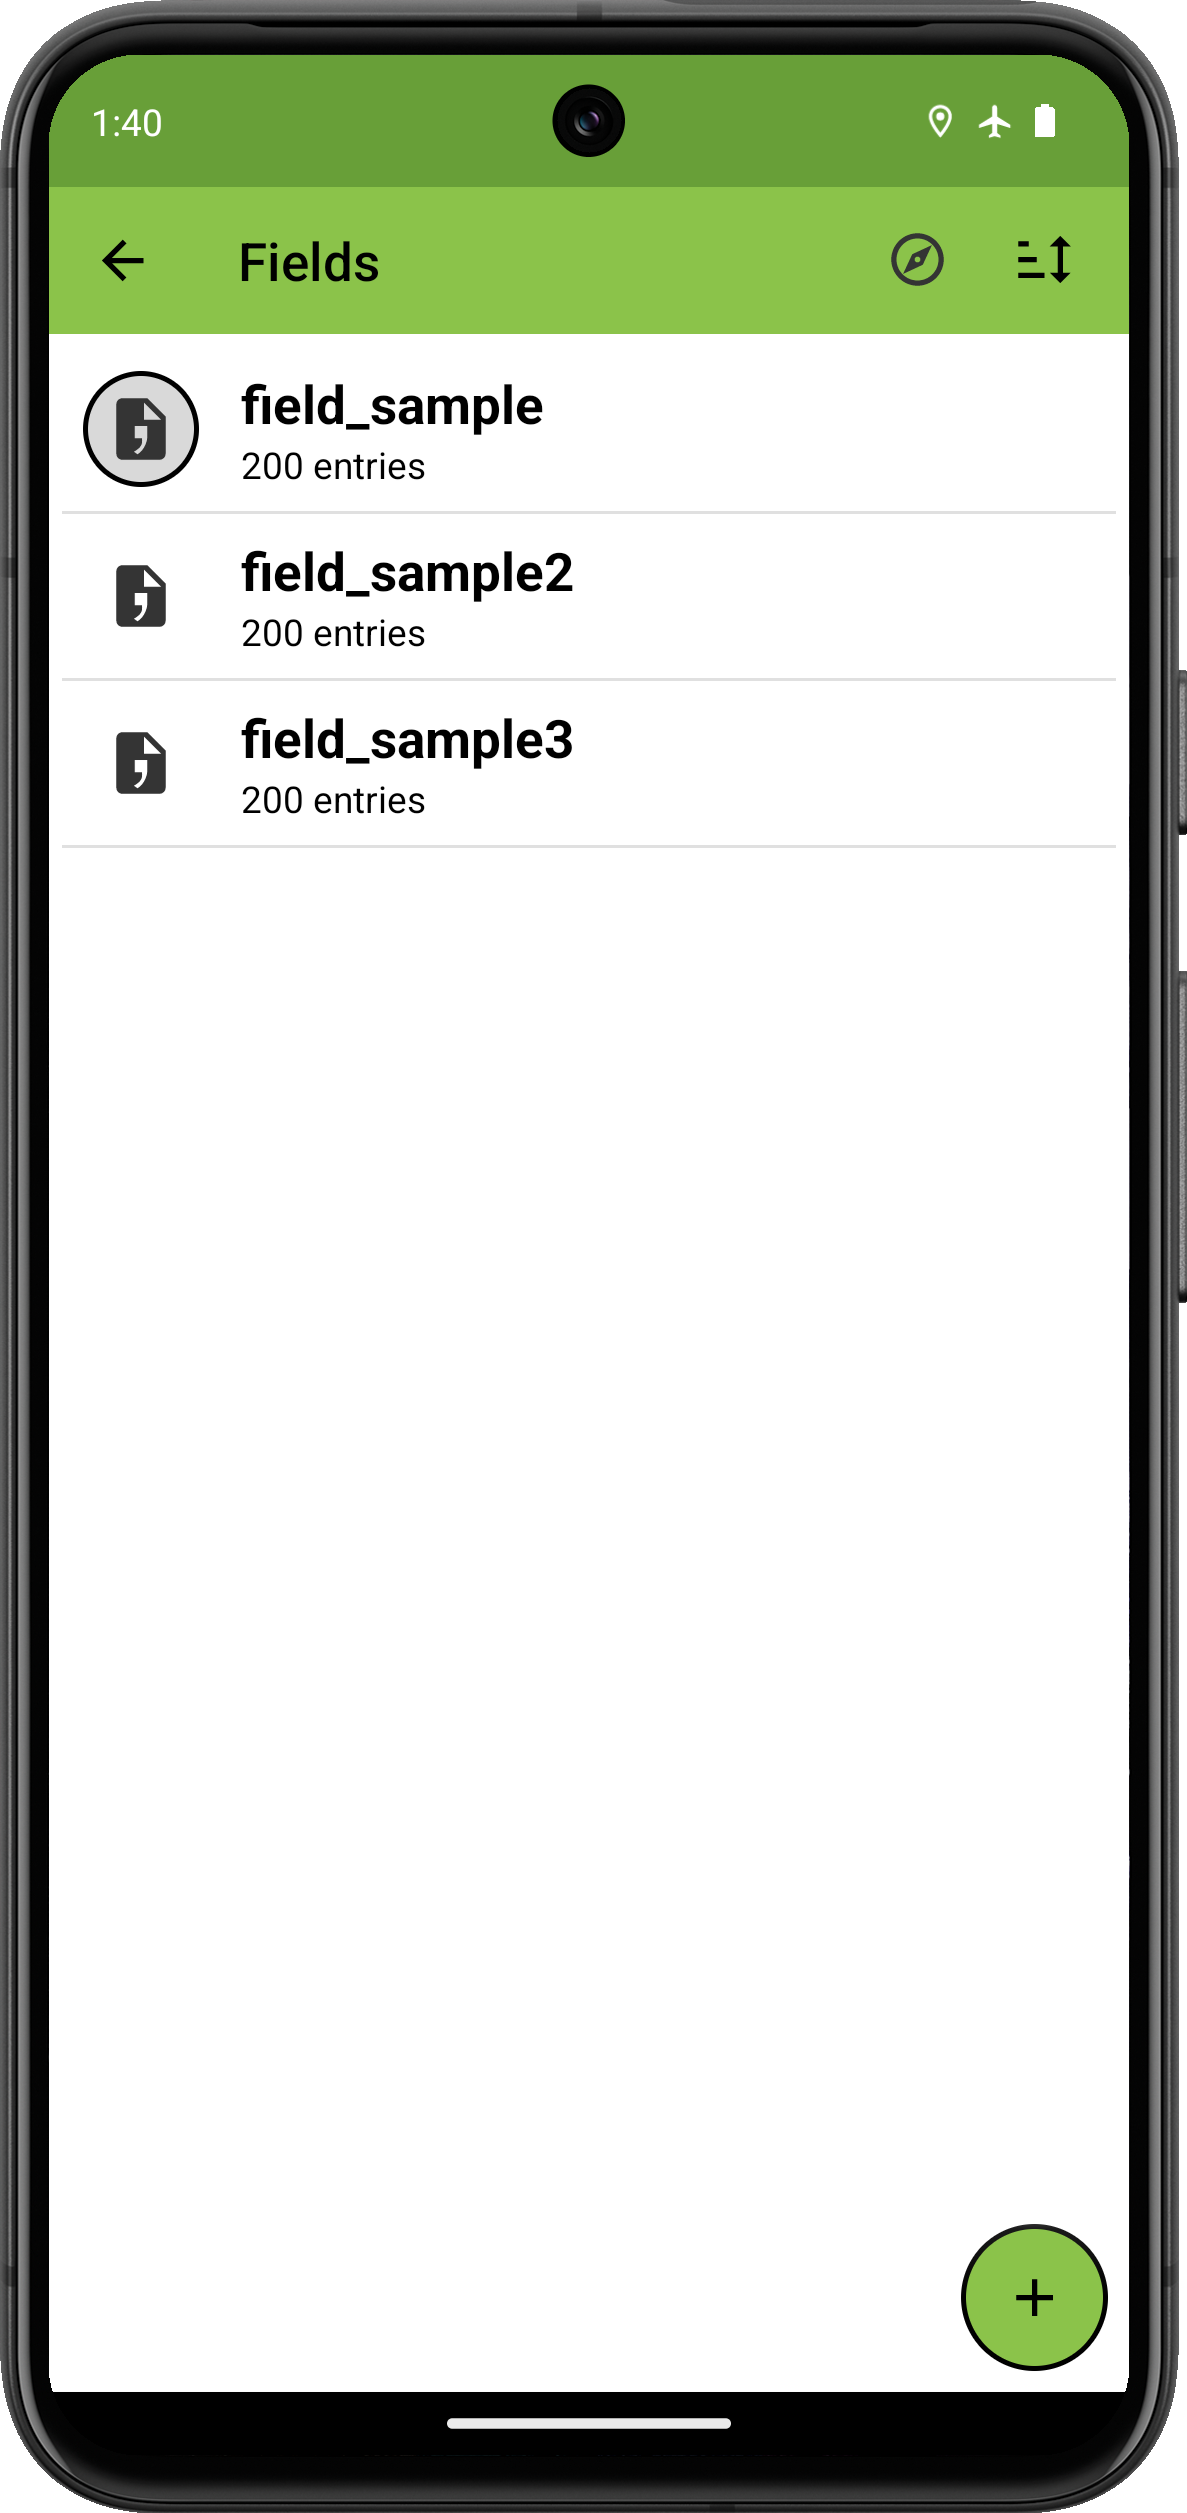
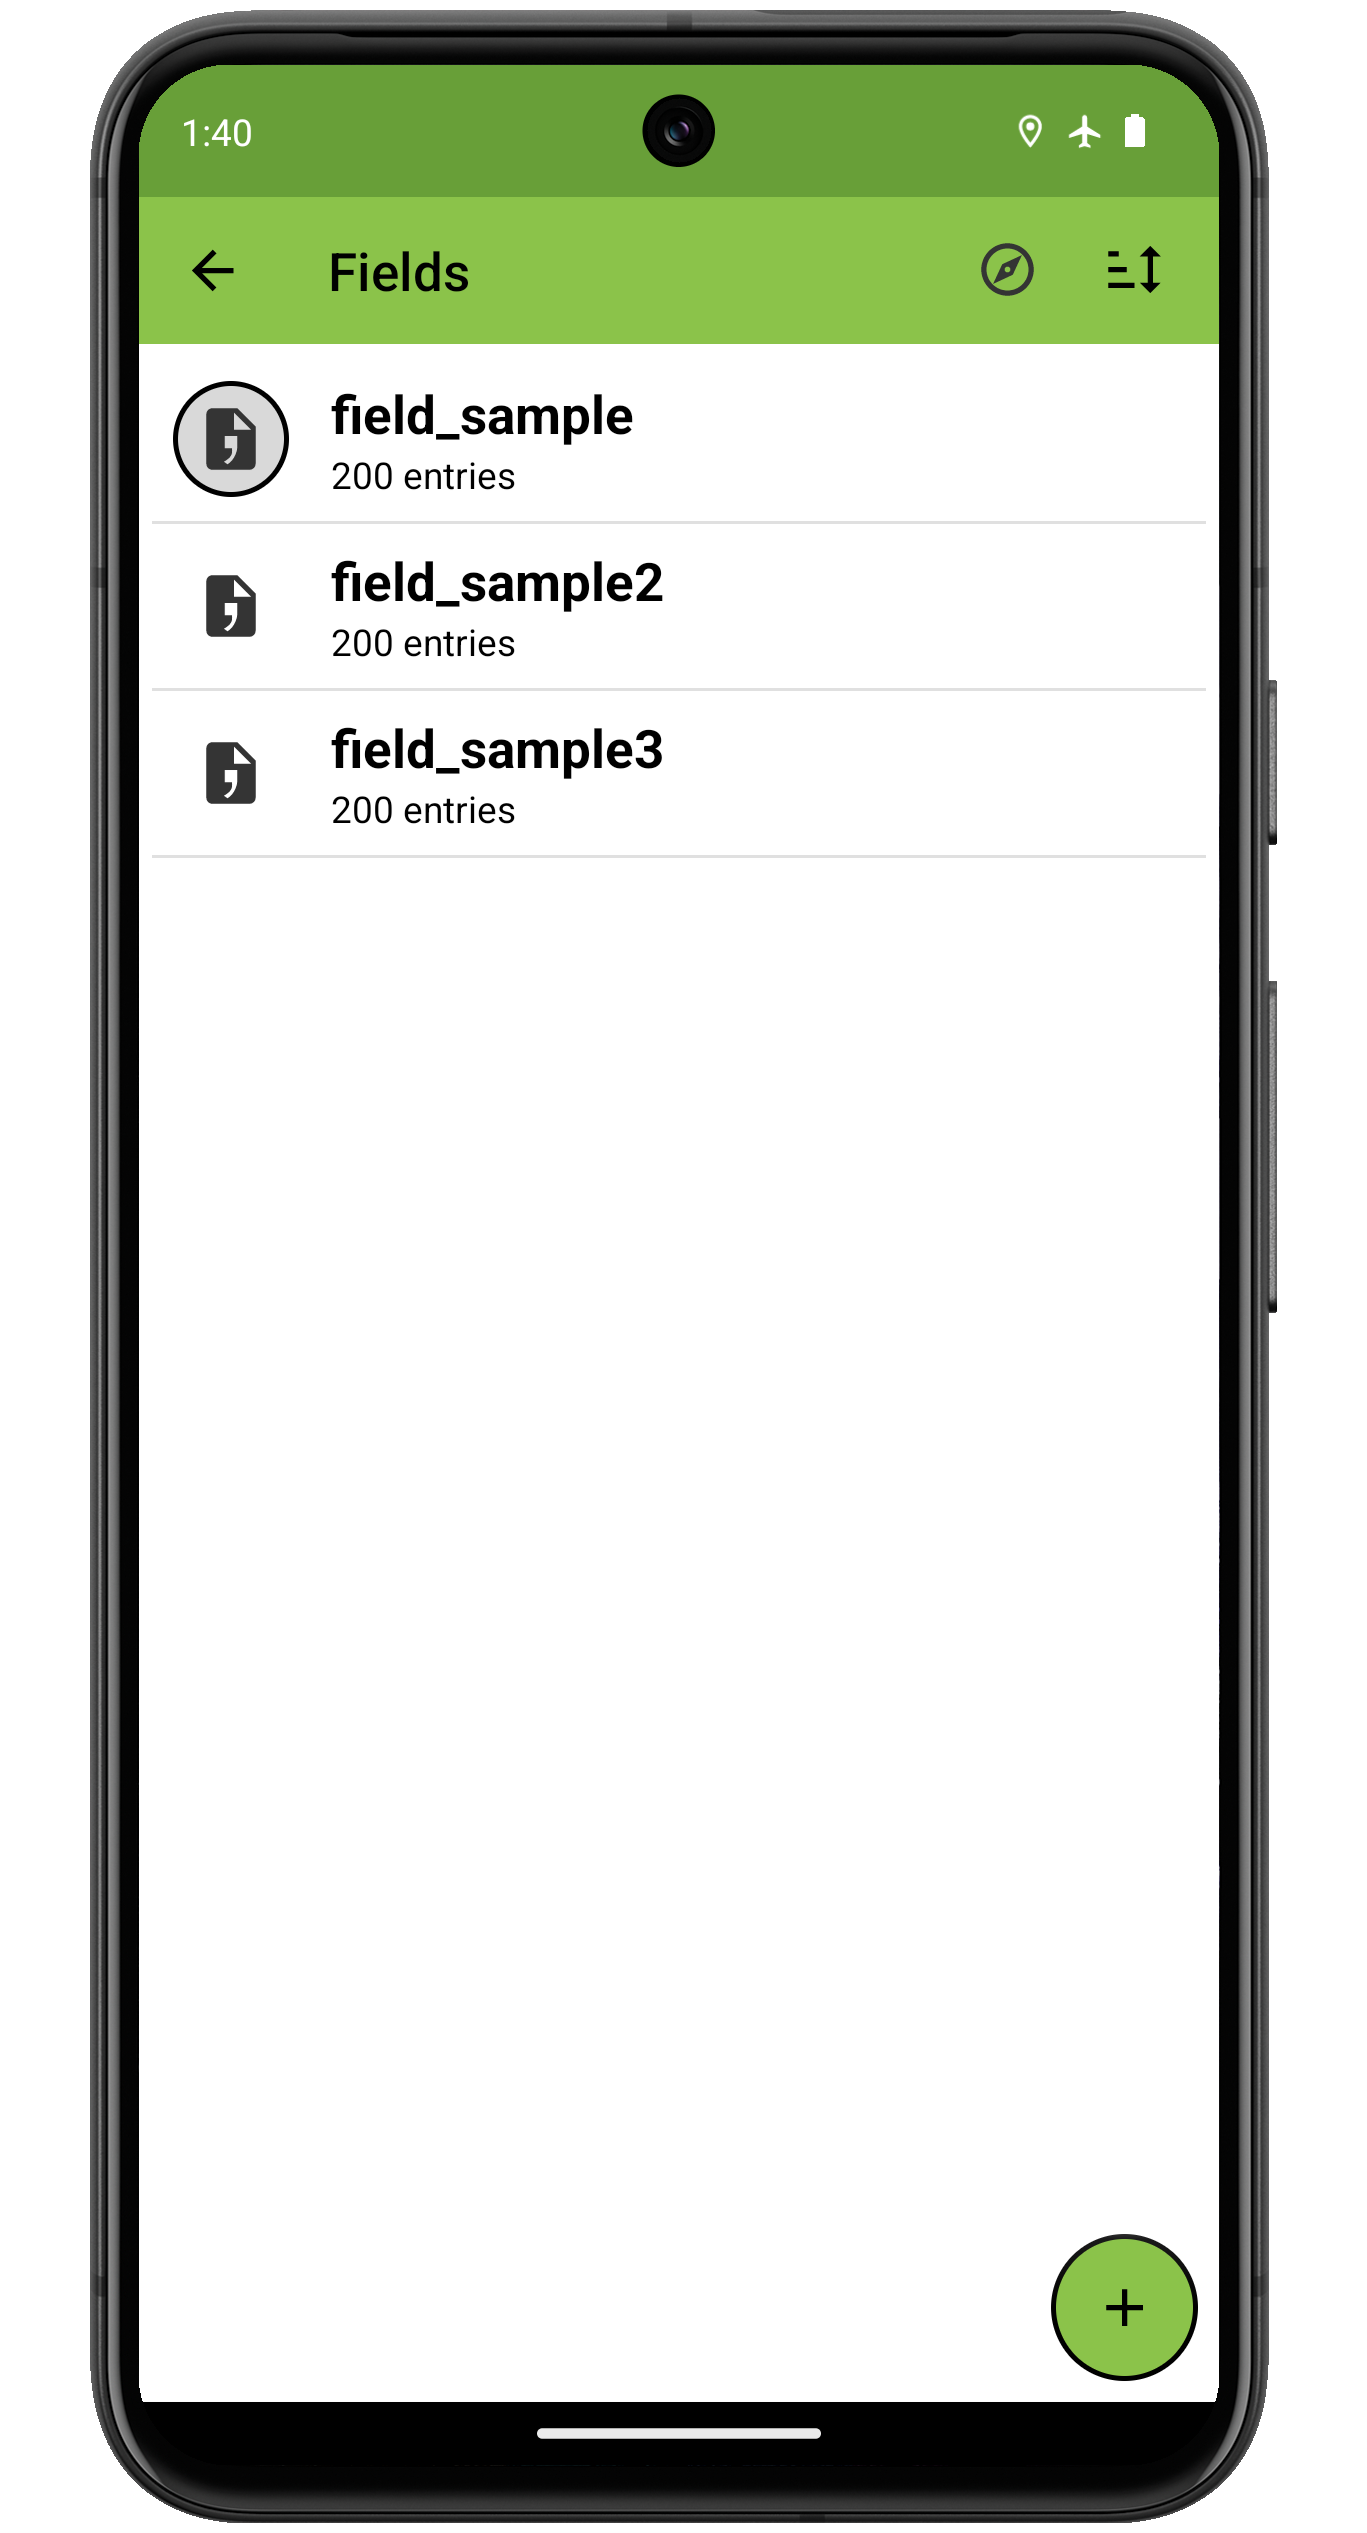
standardize image width

Changed region(s): [[0.0, 0.0, 1.0, 1.0]]

diff --git a/docs/statistics.md b/docs/statistics.md
@@ -14,10 +14,10 @@ The Statistics screen provides helpful information about Field Book usage.
 Statistics Cards
 ----------------
 
-The default statistics cards shows total counts across all data in the app. The counts include number of fields with data collectes, number of entries with data collected, number of observations, hours spent collecting data, number of people who collected data, number of photos taken, as well as the date with the largest number of observations (busiest day) and the entry with the most observations (most observed).
+The default statistics cards shows total counts across all data in the app. The counts include number of fields with data collected, number of entries with data collected, number of observations, hours spent collecting data, number of people who collected data, number of photos taken, as well as the date with the largest number of observations (busiest day) and the entry with the most observations (most observed).
 
 <figure align="center" class="image">
-  <img src="_static/images/statistics/statistics_joined.png" width="700px"> 
+  <img src="_static/images/statistics/statistics_joined.png" width="1100px"> 
   <figcaption><i>The total, year, and month tabs</i></figcaption> 
 </figure>
 
@@ -31,6 +31,6 @@ The heatmap view shows your collection activy overlayed on a calendar. Each circ
 Use the up and down arrows in the toolbar to scroll through the calendar. Use the calendar icon to set a custom range of dates. Or use the number icon to switch the calendar from showing dates to showing numbers of observations.
 
 <figure align="center" class="image">
-  <img src="_static/images/statistics/statistics_heatmap_joined.png" width="1100px"> 
+  <img src="_static/images/statistics/statistics_heatmap_joined.png" width="700px"> 
   <figcaption><i>The heatmap view, left with dates, right with obs numbers</i></figcaption> 
 </figure>

diff --git a/docs/fields.md b/docs/fields.md
@@ -32,7 +32,7 @@ optional, but can be included and viewed in the InfoBars or in the
 summary dialog on the collect screen.
 
 <figure align="center" class="image">
-  <img src="_static/images/fields/fields_framed.png" width="400px"> 
+  <img src="_static/images/fields/fields_framed.png" width="350px"> 
   <figcaption><i>The Fields screen layout with sample fields loaded</i></figcaption> 
 </figure>
 
@@ -120,14 +120,14 @@ To use your location to set the active field, press the <img ref="add" style="ve
 To reorder or sort the fields, press the <img ref="add" style="vertical-align: middle;" src="_static/icons/fields/sort.png" width="20px"> icon in the toolbar. Then choose which field attribute should be used to sort the list.
 
 <figure align="center" class="image">
-  <img src="_static/images/fields/fields_sort_framed.png" width="400px"> 
+  <img src="_static/images/fields/fields_sort_framed.png" width="350px"> 
   <figcaption><i>Field list sort options</i></figcaption> 
 </figure>
 
 For batch operations, long press one or more field items. This opens the action menu. Use the action menu icons to select all, export selected fields, or delete selected fields.
 
 <figure align="center" class="image">
-  <img src="_static/images/fields/fields_delete_framed.png" width="400px"> 
+  <img src="_static/images/fields/fields_delete_framed.png" width="350px"> 
   <figcaption><i>Delete fields confirmation</i></figcaption> 
 </figure>
 
@@ -143,7 +143,7 @@ Field details
 Pressing a field item in the fields list opens a detail view for the field.
 
 <figure align="center" class="image">
-  <img src="_static/images/fields/field_detail_framed.png" width="400px"> 
+  <img src="_static/images/fields/field_detail_framed.png" width="350px"> 
   <figcaption><i>Field detail view</i></figcaption> 
 </figure>
 

diff --git a/docs/collect.md b/docs/collect.md
@@ -15,7 +15,7 @@ The large black arrows are used to navigate between entries. The progress bar ab
 Data is entered in the bottom area of the screen using a layout determined by the current trait. Entered values turn from black to red once they have been saved to Field Book's internal database.
 
 <figure align="center" class="image">
-  <img src="_static/images/collect/collect_framed.png" width="400px"> 
+  <img src="_static/images/collect/collect_framed.png" width="350px"> 
   <figcaption><i>Data collection screen</i></figcaption> 
 </figure>
 
@@ -90,7 +90,7 @@ that are currently active. Pressing the current trait will show a
 dialog of all currently active traits, select a different trait to jump to it.
 
 <figure align="center" class="image">
-  <img src="_static/images/collect/collect_trait_menu_framed.png" width="400px"> 
+  <img src="_static/images/collect/collect_trait_menu_framed.png" width="350px"> 
   <figcaption><i>Pressing the active trait to see the trait
 dialog</i></figcaption> 
 </figure>

diff --git a/docs/settings-appearance.md b/docs/settings-appearance.md
@@ -2,7 +2,7 @@ Appearance Settings
 ===================
 
 <figure align="center" class="image">
-  <img src="_static/images/settings/appearance/settings_appearance_framed.png" width="400px"> 
+  <img src="_static/images/settings/appearance/settings_appearance_framed.png" width="350px"> 
   <figcaption><i>Appearance settings screen
 layout</i></figcaption> 
 </figure>
@@ -47,7 +47,7 @@ Allows the user to change which default toolbar buttons are displayed on
 the Collect screen.
 
 <figure align="center" class="image">
-  <img src="_static/images/settings/appearance/settings_appearance_toolbar_framed.png" width="400px"> 
+  <img src="_static/images/settings/appearance/settings_appearance_toolbar_framed.png" width="350px"> 
   <figcaption><i>Turn default toolbar options
 on/off</i></figcaption> 
 </figure>

diff --git a/docs/settings-brapi.md b/docs/settings-brapi.md
@@ -5,7 +5,7 @@ Configuration
 -------------
 
 <figure align="center" class="image">
-  <img src="_static/images/settings/brapi/settings_brapi_framed.png" width="400px"> 
+  <img src="_static/images/settings/brapi/settings_brapi_framed.png" width="350px"> 
   <figcaption><i>BrAPI Configuration
 Settings</i></figcaption> 
 </figure>
@@ -66,7 +66,7 @@ Advanced Auth Settings
 ----------------------
 
 <figure align="center" class="image">
-  <img src="_static/images/settings/brapi/settings_brapi_2_framed.png" width="400px"> 
+  <img src="_static/images/settings/brapi/settings_brapi_2_framed.png" width="350px"> 
   <figcaption><i>BrAPI Advanced Auth Settings</i></figcaption> 
 </figure>
 

diff --git a/docs/trait-date.md b/docs/trait-date.md
@@ -23,13 +23,13 @@ Collect layout
 --------------
 
 <figure align="center" class="image">
-  <img src="_static/images/traits/formats/collect_date_framed.png" width="400px"> 
+  <img src="_static/images/traits/formats/collect_date_framed.png" width="350px"> 
   <figcaption><i>Date trait collection interface</i></figcaption> 
 </figure>
 
 Press the bottom calendar icon to open the date picker
 
 <figure align="center" class="image">
-  <img src="_static/images/traits/formats/collect_date_picker_framed.png" width="400px"> 
+  <img src="_static/images/traits/formats/collect_date_picker_framed.png" width="350px"> 
   <figcaption><i>The calendar date picker</i></figcaption> 
 </figure>

diff --git a/docs/barcodes.md b/docs/barcodes.md
@@ -21,7 +21,7 @@ accurately capture height without having to hold both the height stick
 and the device.
 
 <figure align="center" class="image">
-  <img src="_static/images/barcodes/barcodes_plant_height.png" width="400px"> 
+  <img src="_static/images/barcodes/barcodes_plant_height.png" width="350px"> 
   <figcaption><i>Plant height measurement via barcoded height
 stick</i></figcaption> 
 </figure>

diff --git a/docs/export.md b/docs/export.md
@@ -8,7 +8,7 @@ Collected data is exported to `.csv` files. The Export dialog allows the
 user to customize how collected data is exported.
 
 <figure align="center" class="image">
-  <img src="_static/images/export/export_framed.png" width="400px"> 
+  <img src="_static/images/export/export_framed.png" width="350px"> 
   <figcaption><i>Export dialog details</i></figcaption> 
 </figure>
 

diff --git a/docs/trait-zebra.md b/docs/trait-zebra.md
@@ -28,7 +28,7 @@ Collect layout
 --------------
 
 <figure align="center" class="image">
-  <img src="_static/images/traits/formats/collect_zebra_label_print_framed.png" width="400px"> 
+  <img src="_static/images/traits/formats/collect_zebra_label_print_framed.png" width="350px"> 
   <figcaption><i>Zebra Label Print trait collection interface</i></figcaption> 
 </figure>
 

diff --git a/docs/settings-location.md b/docs/settings-location.md
@@ -2,7 +2,7 @@ Location Settings
 =================
 
 <figure align="center" class="image">
-  <img src="_static/images/settings/location/settings_location_framed.png" width="400px"> 
+  <img src="_static/images/settings/location/settings_location_framed.png" width="350px"> 
   <figcaption><i>Location settings screen layout</i></figcaption> 
 </figure>
 

diff --git a/docs/trait-categorical.md b/docs/trait-categorical.md
@@ -24,6 +24,6 @@ Collect layout
 --------------
 
 <figure align="center" class="image">
-  <img src="_static/images/traits/formats/collect_categorical_framed.png" width="400px"> 
+  <img src="_static/images/traits/formats/collect_categorical_framed.png" width="350px"> 
   <figcaption><i>Categorical trait collection interface</i></figcaption> 
 </figure>

diff --git a/docs/settings-storage.md b/docs/settings-storage.md
@@ -2,7 +2,7 @@ Storage Settings
 ================
 
 <figure align="center" class="image">
-  <img src="_static/images/settings/storage/settings_storage_framed.png" width="400px"> 
+  <img src="_static/images/settings/storage/settings_storage_framed.png" width="350px"> 
   <figcaption><i>Storage settings screen
 layout</i></figcaption> 
 </figure>
